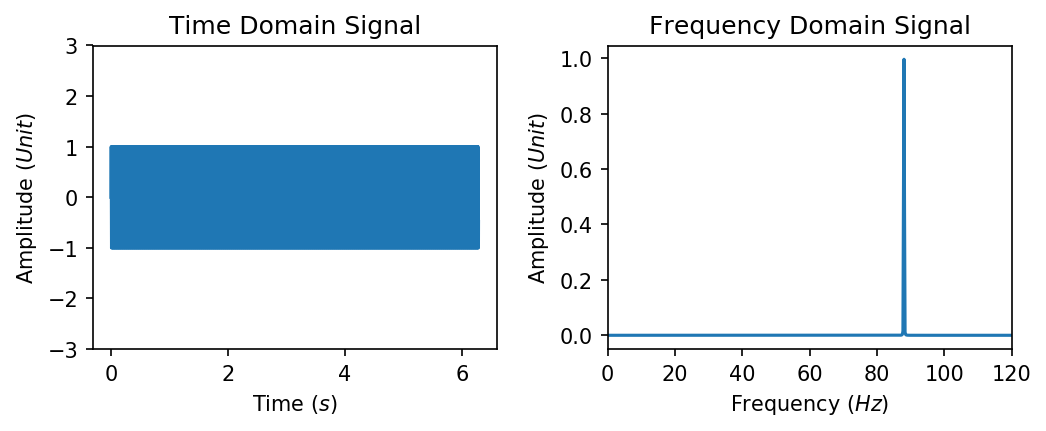
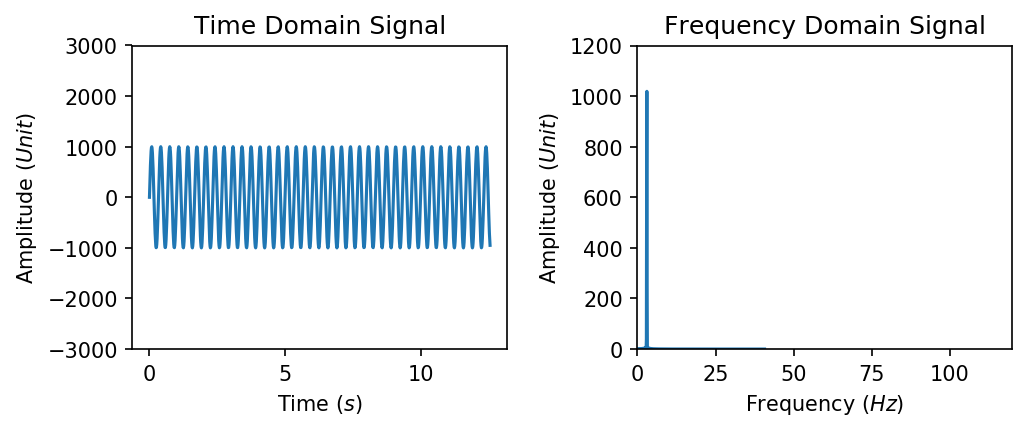
15-08-2018 Desktop

diff --git a/FFT_of_Array.py b/FFT_of_Array.py
@@ -5,29 +5,23 @@ import matplotlib.pyplot as plt
 from numpy import array
 from numpy import random
 
-N = 1000000
-
+N = 1024
 #Generating a Synthetic Signal
 # linspace creates a lineared spaced vector (goes from 0 to 2pi in 1000 points)
-t = np.linspace(0, 2*np.pi, N, endpoint=True)
-A = 100.0 # Amplitude in Unit
-fo = 88
+t = np.linspace(0,2*2*np.pi, N, endpoint=True)
+A = 1000 # Amplitude in Unit
+fo = 3
 #s is now a vector of 1000 points since t has 1000 points
 
 #bigdata = np.zeros((tsize,Nsignal))
 #print(bigdata)
-s = np.sin(t*2*np.pi*fo)
-
-plt.plot(t,s)
-plt.xlabel('Time ($s$)')
-plt.ylabel('Amplitude ($Unit$)')
-plt.show()
+s = A*np.sin(t*2*np.pi*fo)
 
 ################  Fucking-Chuck-Norris-Fast-FFT   #############################
-#Now we are going to create a Fourier Transform (of variable
+#Now we are going to create a Fourier Transform of variable s
 Y = np.fft.fft(s)
-N = len(Y)/2 + 1
-N = int(N)
+print(len(Y))
+fft_size = int(len(Y)/2 + 1)
 
 #Now we need to adjust the frequency and the Amplitude axis
 #Stating with the Frequency Axix (x-Axis)
@@ -39,14 +33,19 @@ print('fa=%.2fHz (Frequency)' % fa)
 
 #Building Nyquist-Shannon-Frequency from the Nyquist-Shannon Sampling Theorem
 
-X = np.linspace(0, fa/2, N, endpoint=True)
+X = np.linspace(0, fa/2, fft_size, endpoint=True)
+
 
 # Correcting Wrong Amplitude Spectrum because of Leakage Effect
 # We need a window function to get a periodic signal from real data
 # you could use np.hanning, np.hamming or np.blackman for instance
 
-hann = np.hanning(len(s))
+hann = np.hamming(len(s))
 Yhann = np.fft.fft(hann*s)
+
+
+Y_FFT = 2.0*np.abs(Yhann[:fft_size])/fft_size
+print(max(Y_FFT))
 
 plt.figure(figsize=(7,3))
 plt.subplot(121)
@@ -57,9 +56,10 @@ plt.xlabel('Time ($s$)')
 plt.ylabel('Amplitude ($Unit$)')
 
 plt.subplot(122)
-plt.plot(X, 2.0*np.abs(Yhann[:N])/N)
+plt.plot(X, 2.0*np.abs(Yhann[:fft_size])/fft_size)
 plt.title('Frequency Domain Signal')
 plt.xlim(0,120)
+plt.ylim(0,1200)
 plt.xlabel('Frequency ($Hz$)')
 plt.ylabel('Amplitude ($Unit$)')
 

diff --git a/subplot.py b/subplot.py
@@ -1,0 +1,28 @@
+"""
+=================
+Multiple subplots
+=================
+
+Simple demo with multiple subplots.
+"""
+import numpy as np
+import matplotlib.pyplot as plt
+
+
+x1 = np.linspace(0.0, 5.0)
+x2 = np.linspace(0.0, 2.0)
+
+y1 = np.cos(2 * np.pi * x1) * np.exp(-x1)
+y2 = np.cos(2 * np.pi * x2)
+
+plt.subplot(211)
+plt.plot(x1, y1, 'o-')
+plt.title('A tale of 2 subplots')
+plt.ylabel('Damped oscillation')
+
+plt.subplot(212)
+plt.plot(x2, y2, '.-')
+plt.xlabel('time (s)')
+plt.ylabel('Undamped')
+
+plt.show()
